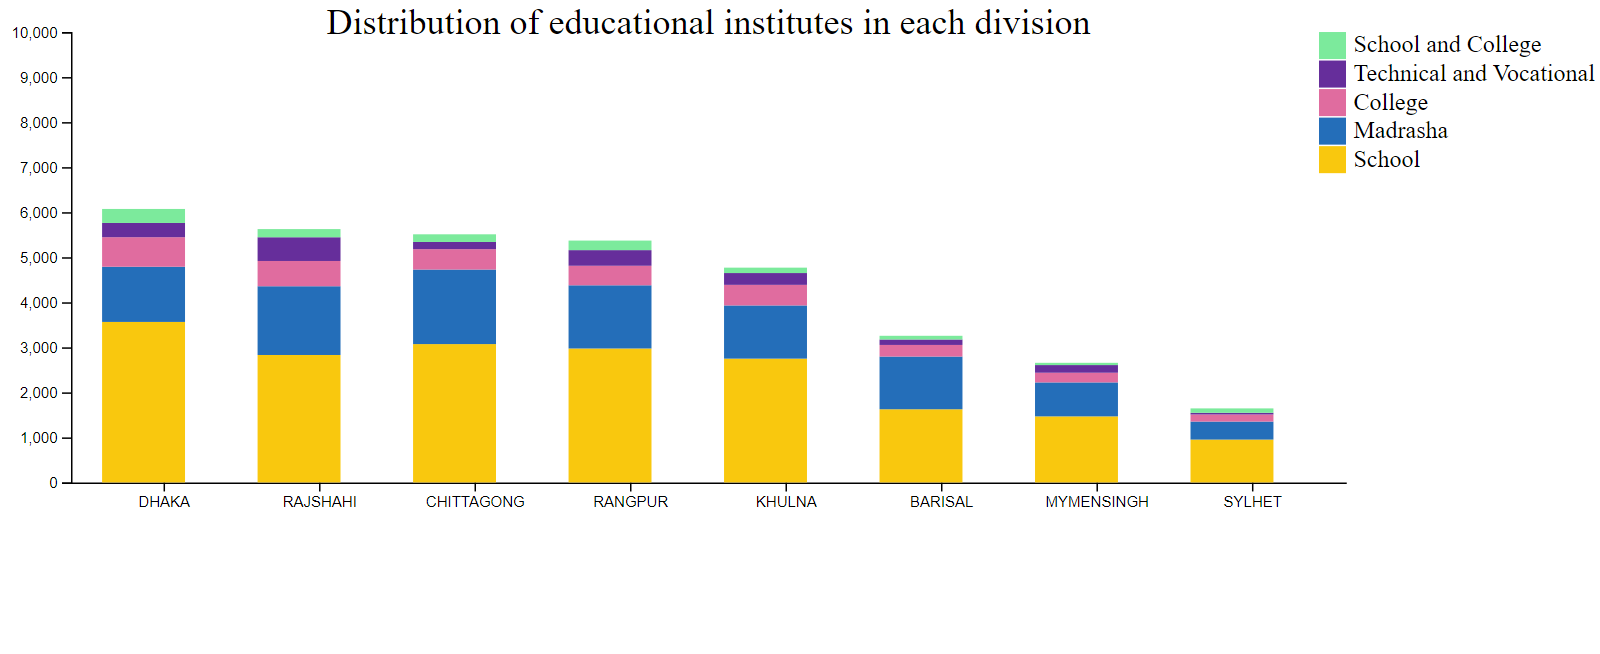
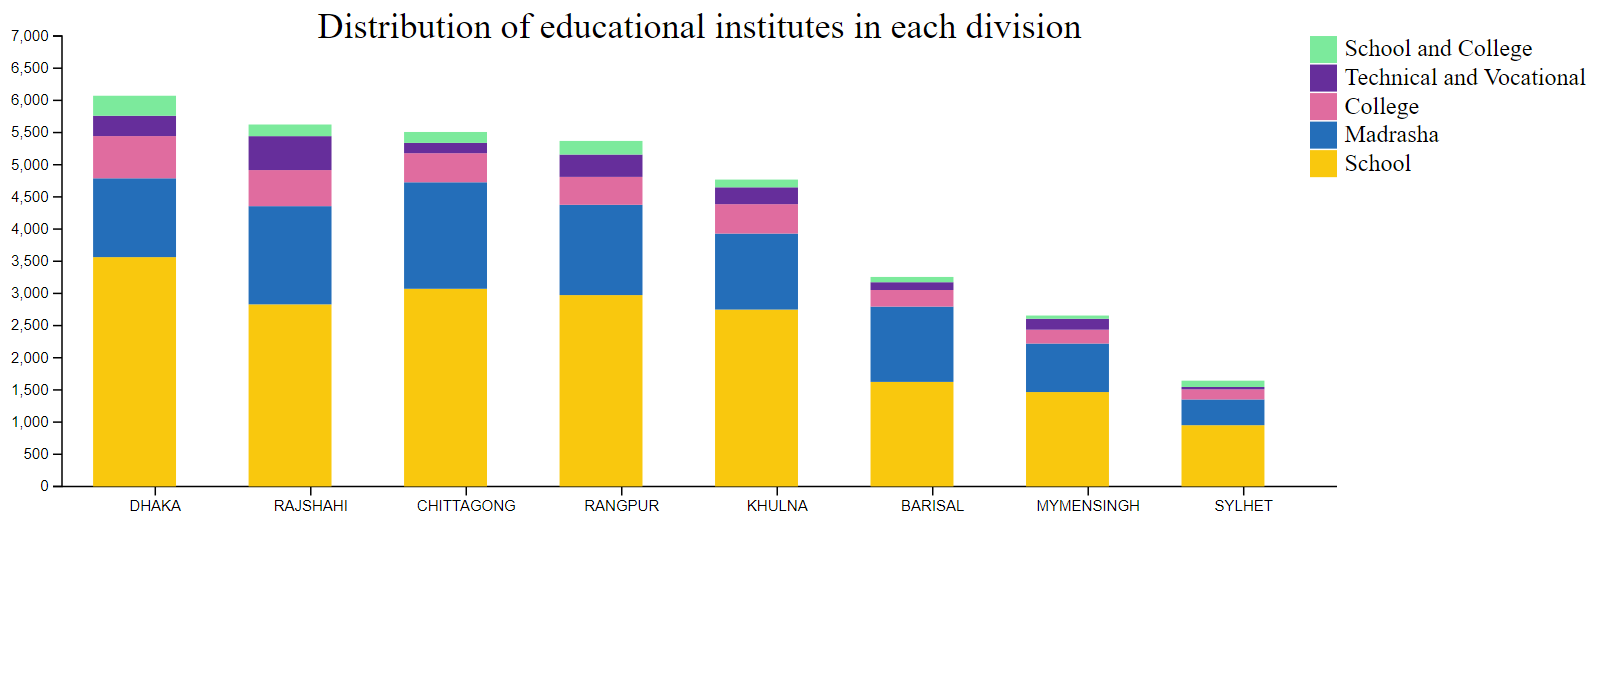
changed stacked bar chart height

diff --git a/educational institutions bangladesh/visualize.html b/educational institutions bangladesh/visualize.html
@@ -50,7 +50,7 @@
       .call(d3.axisBottom(x).tickSizeOuter(0));
 
     var y = d3.scaleLinear()
-      .domain([0, 10000])
+      .domain([0, 7000])
       .range([height, 0]);
     svg.append("g")
       .call(d3.axisLeft(y));
